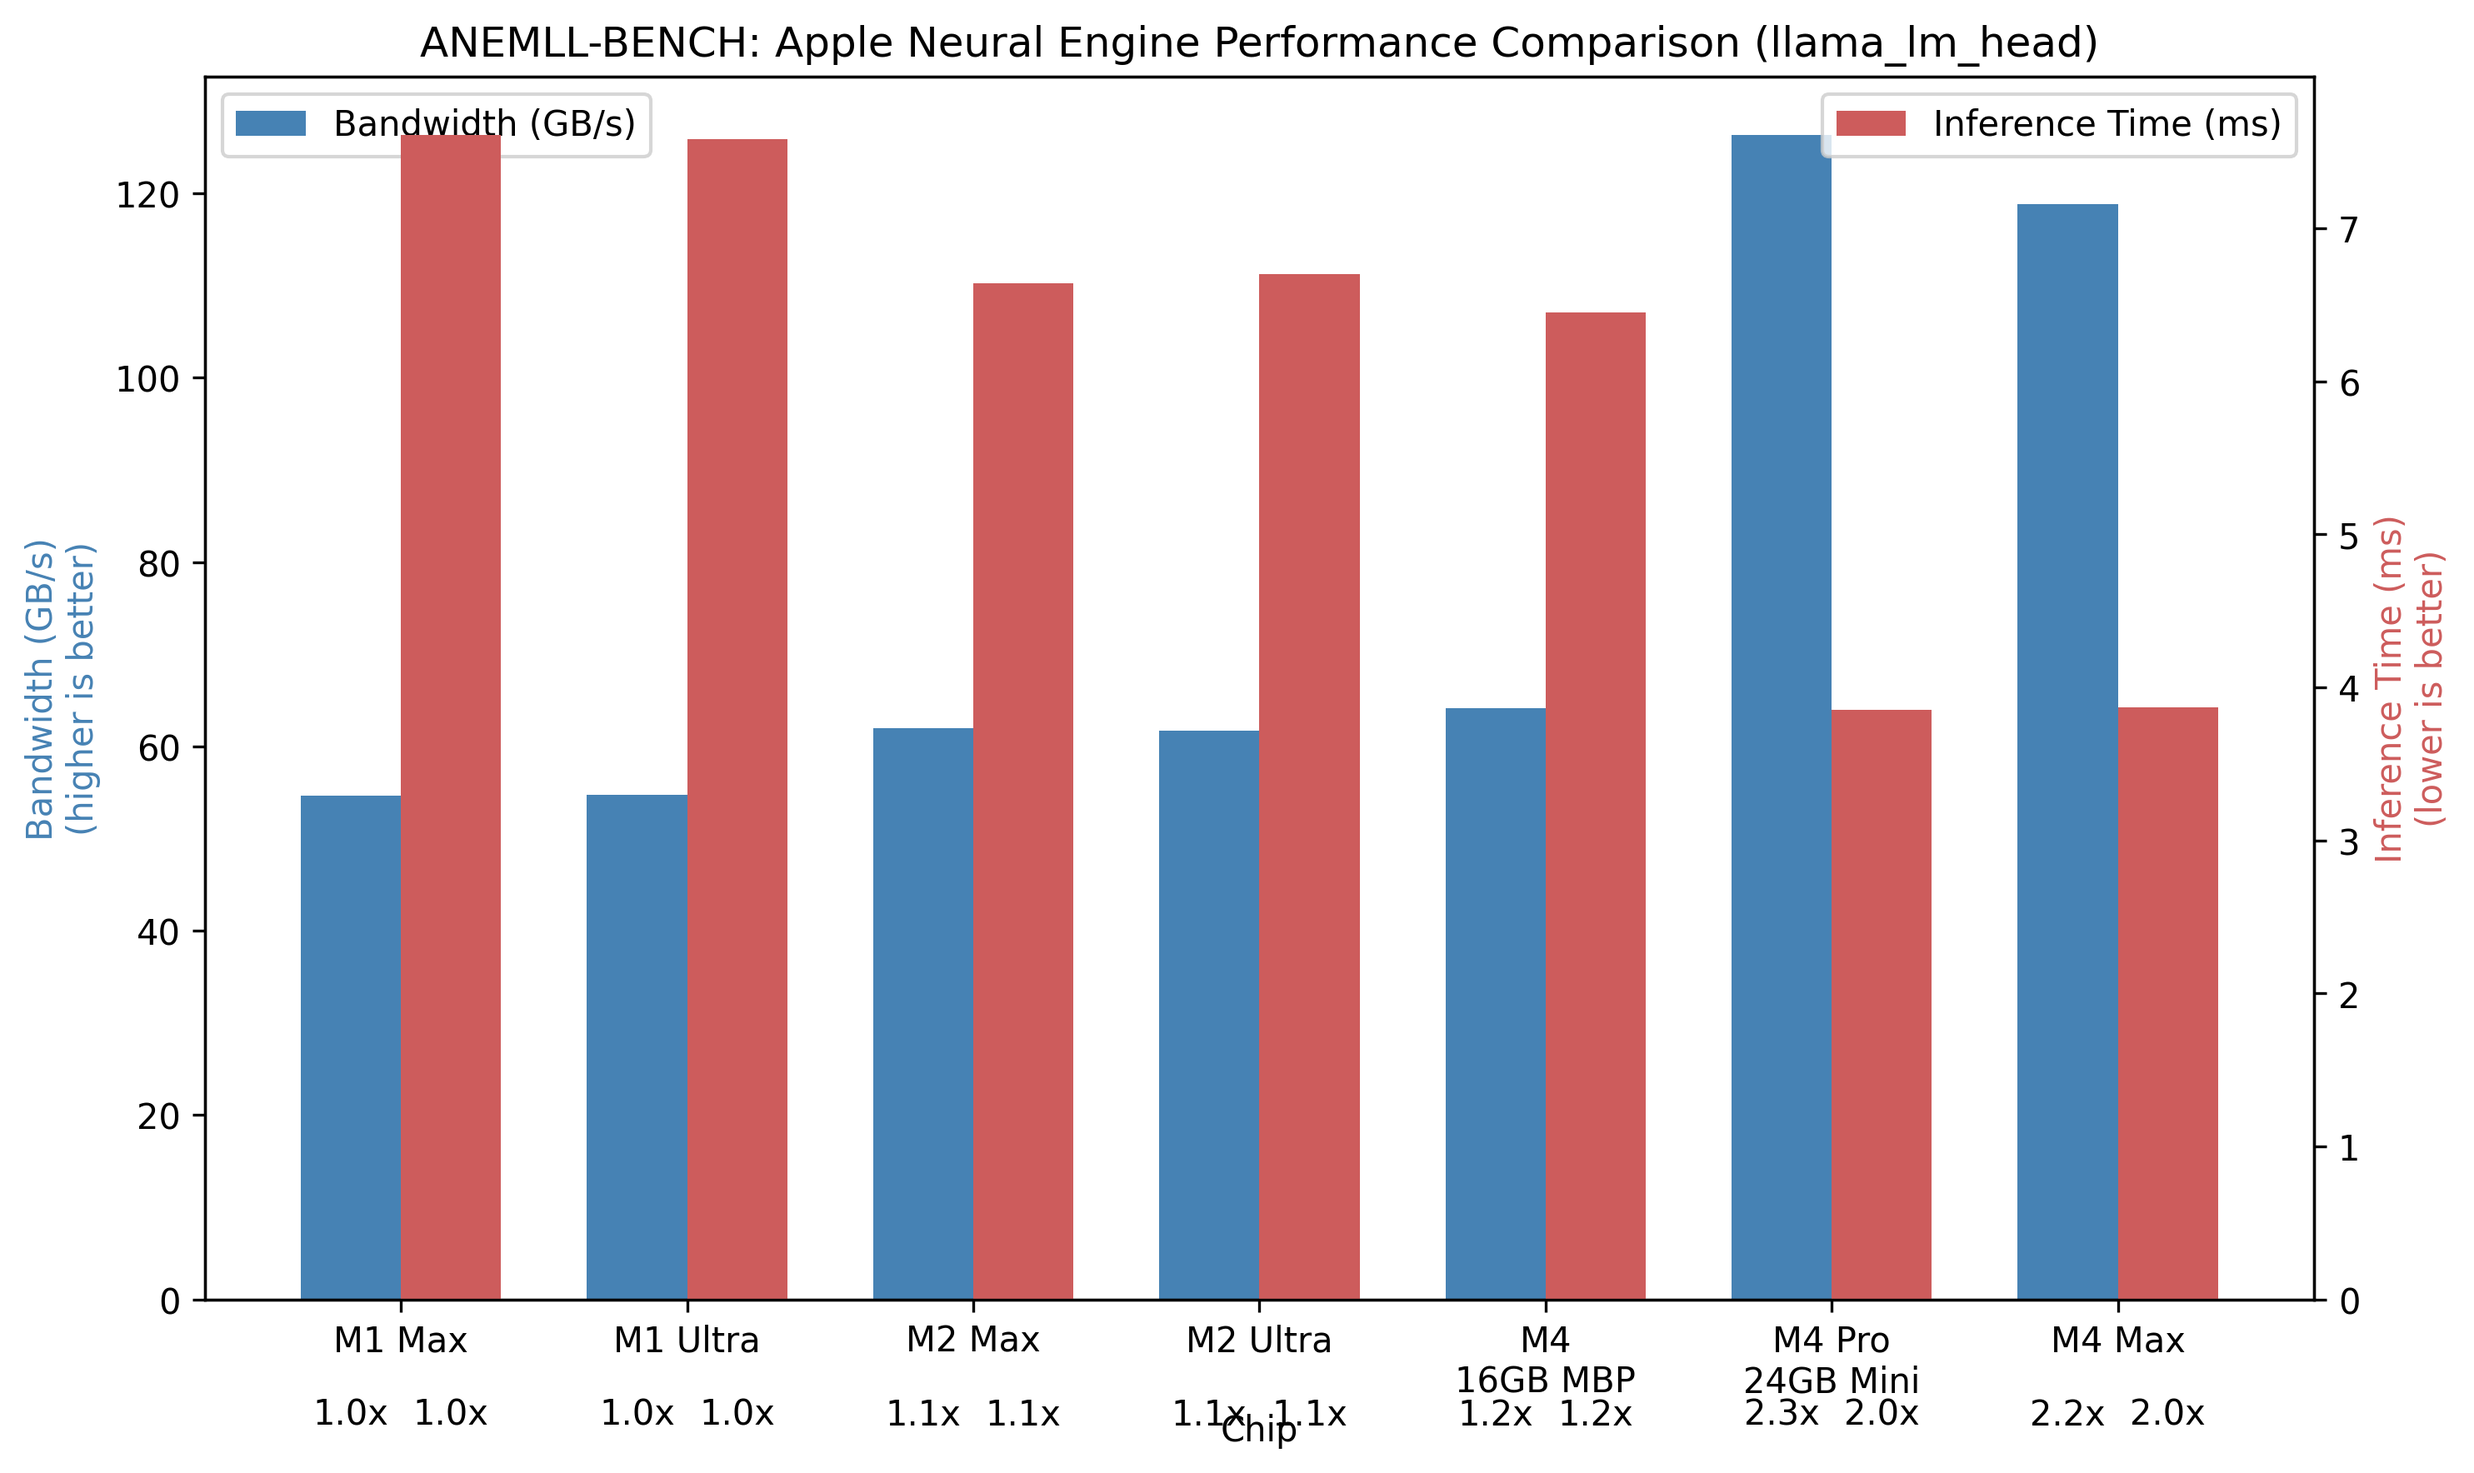
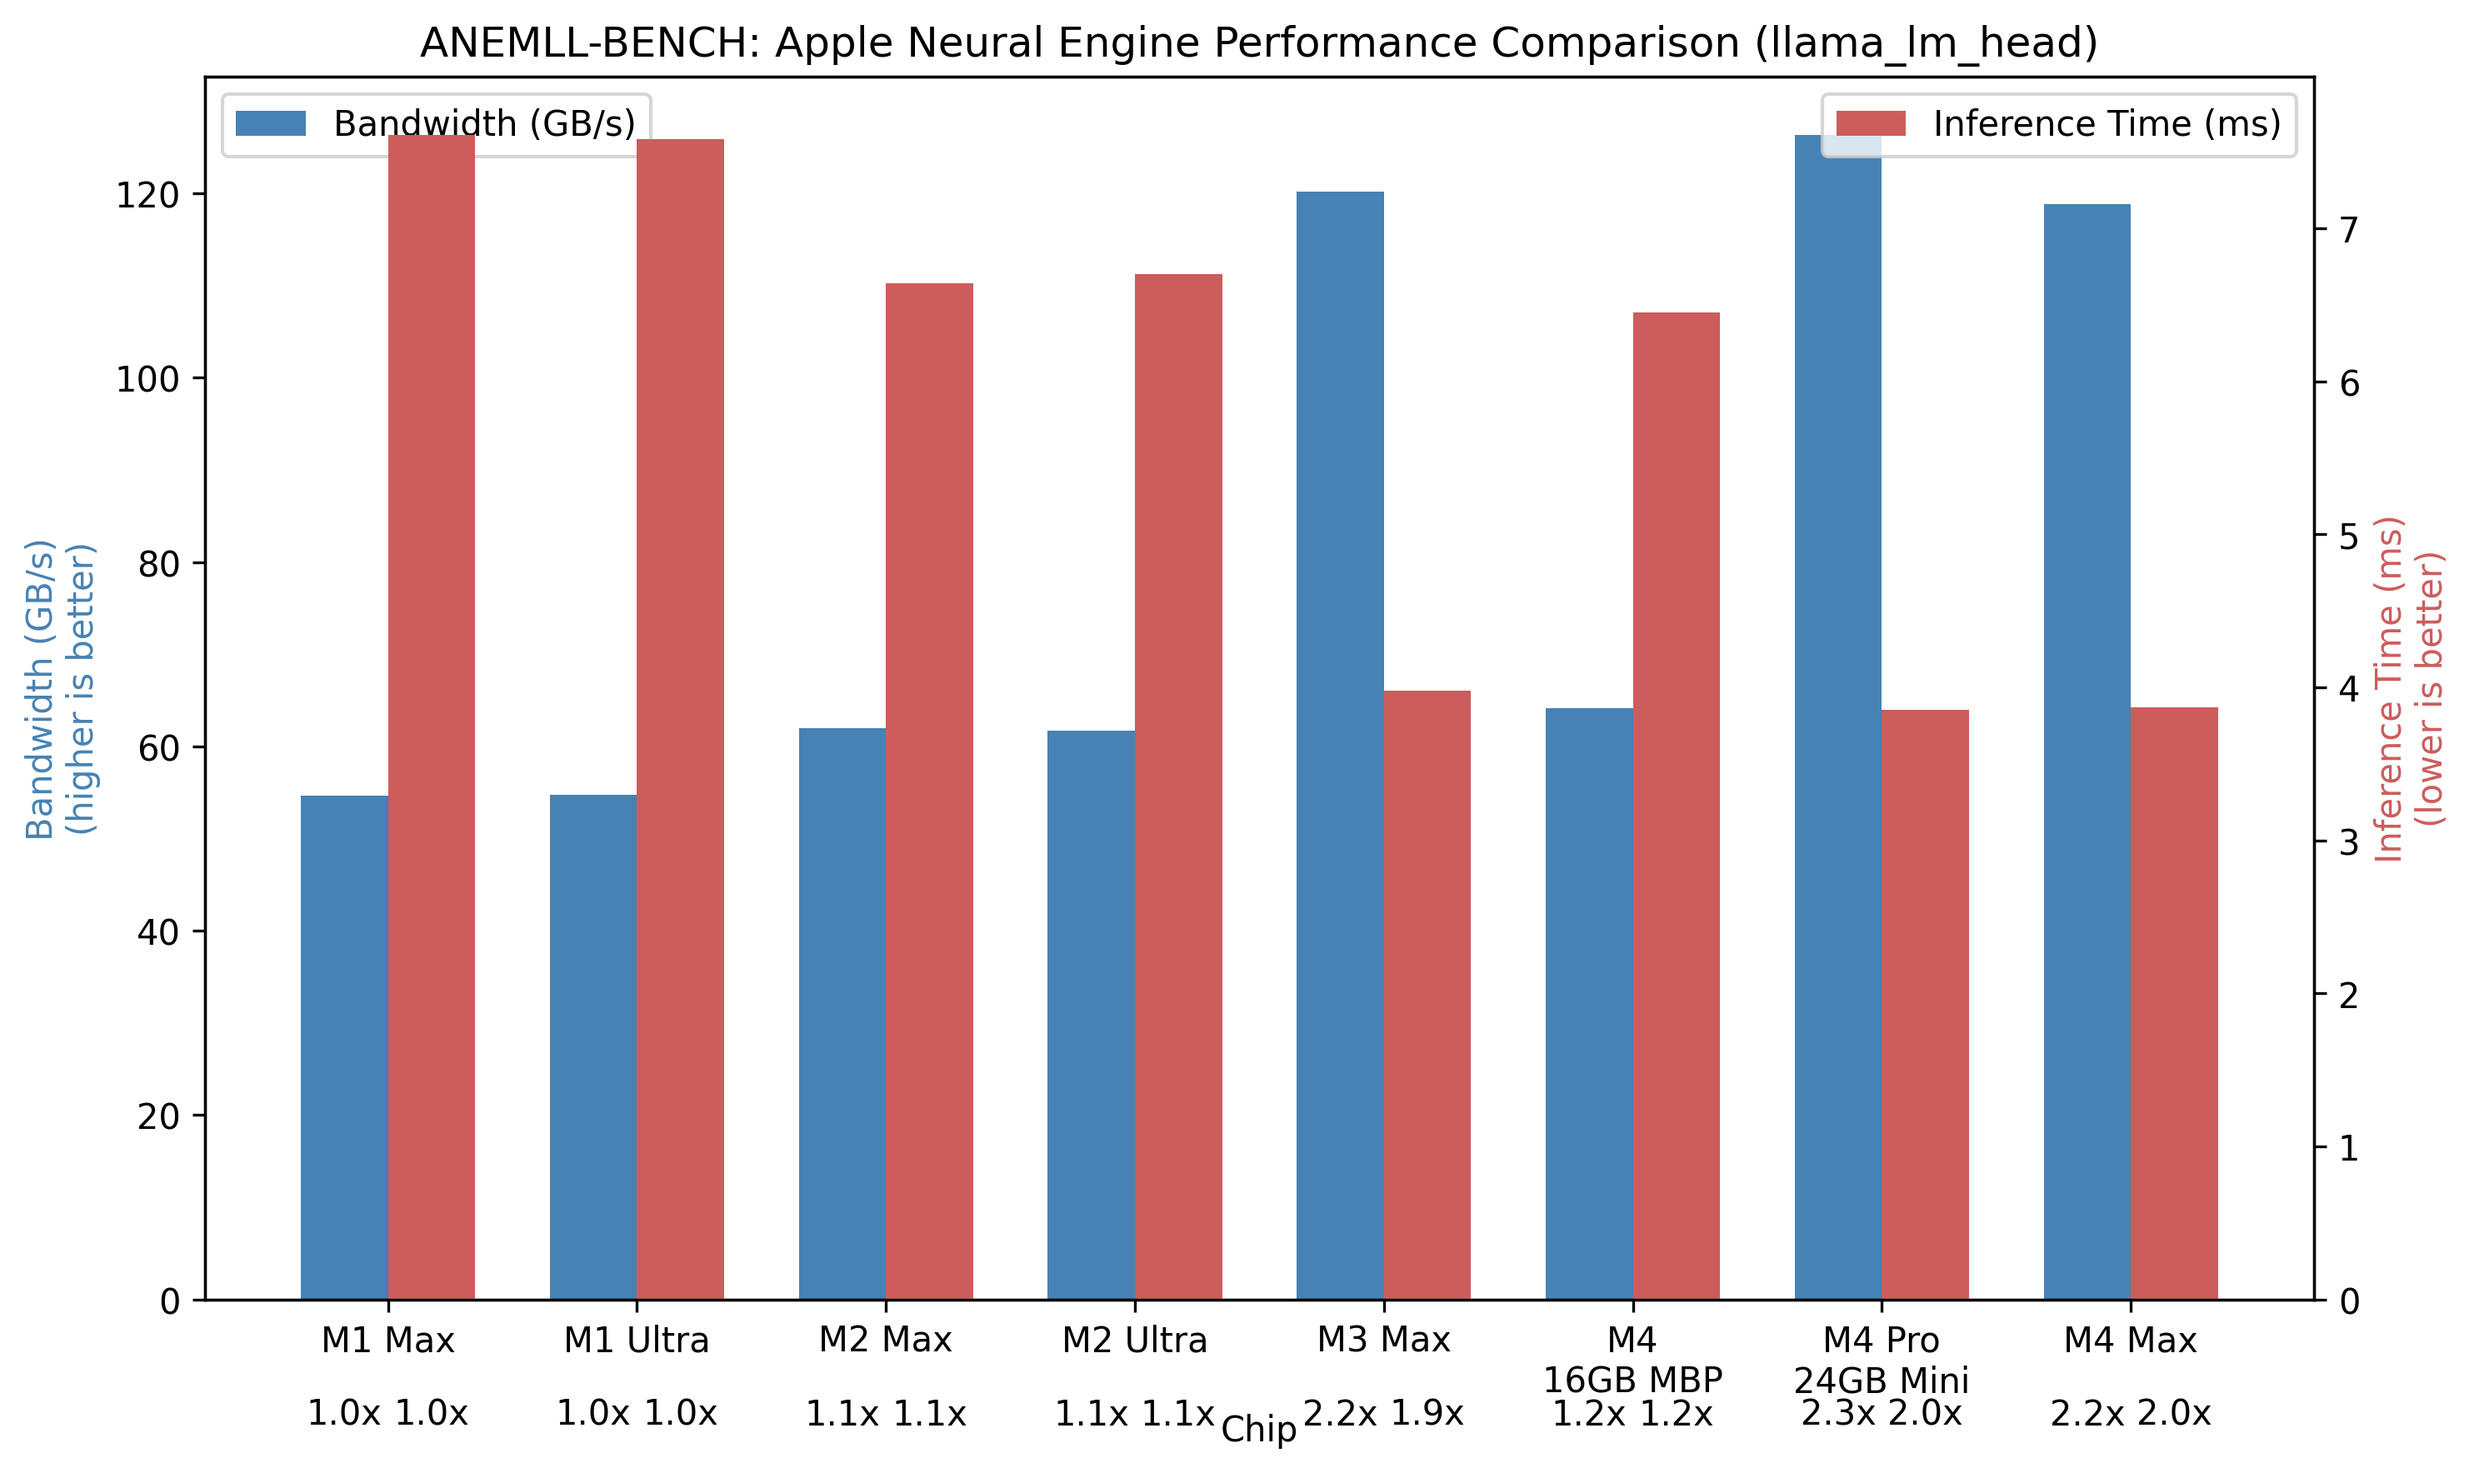
M3 Max report added

diff --git a/examples/generate_results_report.py b/examples/generate_results_report.py
@@ -44,11 +44,11 @@ def generate_visualizations(args):
     
     # Sample data from benchmark results
     # In a real implementation, this would come from parsing the benchmark results file
-    chips = ['M1 Max', 'M1 Ultra', 'M2 Max', 'M2 Ultra', 'M4\n16GB MBP', 'M4 Pro\n24GB Mini', 'M4 Max']
-    bandwidth = [54.62, 54.72, 62.01, 61.68, 64.18, 126.36, 118.88]  # GB/s (llama_lm_head)
-    inference = [7.61, 7.58, 6.64, 6.70, 6.45, 3.85, 3.87]           # ms (llama_lm_head_lut6)
-    bandwidth_factor = ['1.0x', '1.0x', '1.1x', '1.1x', '1.2x', '2.3x', '2.2x']
-    inference_factor = ['1.0x', '1.0x', '1.1x', '1.1x', '1.2x', '2.0x', '2.0x']
+    chips = ['M1 Max', 'M1 Ultra', 'M2 Max', 'M2 Ultra', 'M3 Max', 'M4\n16GB MBP', 'M4 Pro\n24GB Mini', 'M4 Max']
+    bandwidth = [54.62, 54.72, 62.01, 61.68, 120.22, 64.18, 126.36, 118.88]  # GB/s (llama_lm_head)
+    inference = [7.61, 7.58, 6.64, 6.70, 3.98, 6.45, 3.85, 3.87]           # ms (llama_lm_head_lut6)
+    bandwidth_factor = ['1.0x', '1.0x', '1.1x', '1.1x', '2.2x', '1.2x', '2.3x', '2.2x']
+    inference_factor = ['1.0x', '1.0x', '1.1x', '1.1x', '1.9x', '1.2x', '2.0x', '2.0x']
 
     # Create benchmark data dictionary
     benchmark_data = {

diff --git a/examples/plot_chip_comparison.py b/examples/plot_chip_comparison.py
@@ -25,11 +25,11 @@ def main():
     args = parser.parse_args()
 
     # Sample data from llama_lm_head model benchmarks
-    chips = ['M1 Max', 'M1 Ultra', 'M2 Max', 'M2 Ultra', 'M4\n16GB MBP', 'M4 Pro\n24GB Mini', 'M4 Max']
-    bandwidth = [54.62, 54.72, 62.01, 61.68, 64.18, 126.36, 118.88]  # GB/s (llama_lm_head)
-    inference = [7.61, 7.58, 6.64, 6.70, 6.45, 3.85, 3.87]           # ms (llama_lm_head_lut6)
-    bandwidth_factor = ['1.0x', '1.0x', '1.1x', '1.1x', '1.2x', '2.3x', '2.2x']
-    inference_factor = ['1.0x', '1.0x', '1.1x', '1.1x', '1.2x', '2.0x', '2.0x']
+    chips = ['M1 Max', 'M1 Ultra', 'M2 Max', 'M2 Ultra', 'M3 Max', 'M4\n16GB MBP', 'M4 Pro\n24GB Mini', 'M4 Max']
+    bandwidth = [54.62, 54.72, 62.01, 61.68, 120.22, 64.18, 126.36, 118.88]  # GB/s (llama_lm_head)
+    inference = [7.61, 7.58, 6.64, 6.70, 3.98, 6.45, 3.85, 3.87]           # ms (llama_lm_head_lut6)
+    bandwidth_factor = ['1.0x', '1.0x', '1.1x', '1.1x', '2.2x', '1.2x', '2.3x', '2.2x']
+    inference_factor = ['1.0x', '1.0x', '1.1x', '1.1x', '1.9x', '1.2x', '2.0x', '2.0x']
 
     # Option 1: Use plot_chip_comparison directly
     print("Demonstrating direct use of plot_chip_comparison function...\n")

diff --git a/README.md b/README.md
@@ -13,9 +13,9 @@ ANEMLL-Bench is part on ANEMLL Open Source Project [anemll.com](https://anemll.c
 
 ## 📊 [View Benchmark Results](./Results.MD) 📊
 
-[![Apple Silicon Performance Comparison](./reports/chip_comparison_llama_lm_head.png?v=20250309_v4)](./Results.MD)
+[![Apple Silicon Performance Comparison](./reports/chip_comparison_llama_lm_head.png?v=20250309_v6)](./Results.MD)
 
-Check out our latest [benchmark results](./Results.MD) comparing performance across different Apple Silicon chips (M1, M2, M4 series).
+Check out our latest [benchmark results](./Results.MD) comparing performance across different Apple Silicon chips (M1, M2, M3, M4 series).
 
 <div align="center">
   <h2>📊 Help Us Build a Comprehensive Benchmark Database! 📊</h2>
@@ -37,7 +37,7 @@ Check out our latest [benchmark results](./Results.MD) comparing performance acr
         <td>
           ✓ M3<br>
           ✓ M3 PRO<br>
-          ✓ M3 MAX<br>
+          ✓ M3 MAX ✅<br>
           ✓ M3 ULTRA
         </td>
         <td>
@@ -105,151 +105,4 @@ python examples/load_platform_models.py --model llama_lm_head
 python examples/benchmark_all_models.py --use-local --no-sync
 ```
 
-This will automatically download and prepare all the optimized models for your specific macOS version. The models are stored in `~/.cache/anemll-bench/` and are ready to use immediately.
-
-After running benchmarks, check out the [benchmark results](./Results.MD) to see how your device compares to other Apple Silicon chips.
-
-## Features
-- Benchmark models on Apple Neural Engine and compare with CPU/GPU performance
-- Measure inference time and memory bandwidth utilization (GB/s)
-- Download and convert models from Hugging Face to CoreML format
-- Automatically collect system information (Mac model, CPU details, memory)
-- Generate comprehensive HTML reports with visualizations
-- Upload and share reports via multiple services (GitHub Gist, JSONBin, Pastebin)
-- (future) Easy-to-use API for integrating new models
-- Automatic downloading of platform-specific optimized models (macOS 15.x+)
-- Robust model size detection for accurate throughput calculation
-
-## Setup Instructions
-
-### Option 1: Using Python 3.9 (Recommended)
-
-We provide a script to create a Python 3.9 virtual environment:
-
-```bash
-# Make the script executable
-chmod +x create_python39_env.sh
-
-# Run the script
-./create_python39_env.sh
-
-# Activate the environment
-source env-anemll-bench/bin/activate
-
-# Install dependencies
-cd env-anemll-bench
-./install_dependencies.sh
-cd ..
-pip install -e .
-
-#download models
-python examples/sync_models.py
-
-#run banhcmarks
-python examples/benchmark_all_models.py
-
-```
-
-### Option 2: Using Your Current Python Version
-
-If you want to use your current Python version:
-
-```bash
-# Make the script executable
-chmod +x install_dependencies.sh
-
-# Run the script
-./install_dependencies.sh
-```
-
-> **Note**: This may result in compatibility issues if you're using Python 3.13+. See the [Troubleshooting](#troubleshooting) section for common issues and solutions.
-
-## Installation
-
-### Prerequisites
-
-#### Xcode Command Line Tools
-
-ANEMLL-Bench requires Xcode Command Line Tools to be installed on macOS, as they provide essential development libraries and compilers needed for the build process.
-
-To check if Xcode Command Line Tools are installed:
-
-```bash
-xcode-select -p
-```
-
-If the command returns a path (e.g., `/Library/Developer/CommandLineTools` or `/Applications/Xcode.app/Contents/Developer`), then the tools are installed.
-
-If not installed, you can install them by running:
-
-```bash
-xcode-select --install
-```
-
-
-### Verifying Installation
-
-To verify your installation, run the system info command:
-
-```bash
-python -m anemll_bench --system-info
-```
-
-This should display information about your system, including whether you have Apple Silicon and Neural Engine available.
-
-### Automatic Benchmarking of All Models
-
-You can easily benchmark all available platform-specific models with a single command:
-
-```bash
-# Benchmark all models with default settings (300 iterations)
-python examples/benchmark_all_models.py
-
-# Customize the benchmarking process
-python examples/benchmark_all_models.py --runs 500 --sequence-length 1 --output my_report.html
-
-# Skip model synchronization and use only local models
-python examples/benchmark_all_models.py --no-sync --use-local
-
-# Generate a report without charts
-python examples/benchmark_all_models.py --no-charts
-```
-
-This will automatically:
-1. Download any missing models (unless `--no-sync` and `--use-local` are used)
-2. Benchmark each available model for your macOS version 
-3. Generate a comprehensive report with comparison metrics
-
-
-### Checking for Online Model Updates
-
-The package can check Hugging Face for updated model definitions:
-
-```python
-from anemll_bench.models import check_and_update_platform_models
-
-# Check for updated model definitions online
-check_and_update_platform_models()
-```
-
-You can also use the example scripts provided:
-
-```bash
-# Standard benchmarking (uses local models)
-python examples/load_platform_models.py
-
-# Check for updates online, then benchmark
-python examples/load_platform_models.py --check-online
-
-# Benchmark a specific model with online check
-python examples/load_platform_models.py --model llama_lm_head --check-online --num-runs 50
-
-# Check and update model definitions from Hugging Face
-python examples/check_online_models.py
-```
-
-### Automatic Model Synchronization
-
-The easiest way to get all required models is to run the sync script:
-
-```
+This will automatically download and prepare all the optimized models for your specific macOS version. The models are stored in `~/.cache/anemll-bench/`

diff --git a/Results.MD b/Results.MD
@@ -2,9 +2,9 @@
 
 This document presents benchmark results for various machine learning models on different Apple Silicon chips, focusing on Neural Engine (ANE) performance.
 
-## ⚠ ATTENTION: M3 RESULTS NEEDED! ⚠
+## ⚠ ATTENTION: MORE M3 RESULTS NEEDED! ⚠
 
-**We need benchmark data from M3 series devices!** If you have access to any M3 chip variant (M3, M3 Pro, M3 Max, or M3 Ultra), please consider running the benchmarks and submitting your results. Your contribution will help complete our cross-generation performance analysis.
+**We now have M3 Max data but still need more M3 series benchmarks!** If you have access to any other M3 chip variant (M3, M3 Pro, or M3 Ultra), please consider running the benchmarks and submitting your results. Your contribution will help complete our cross-generation performance analysis.
 
 *Submit results to: [realanemll@gmail.com](mailto:realanemll@gmail.com) or [open an issue](https://github.com/Anemll/anemll-bench/issues/new)*
 
@@ -20,12 +20,13 @@ Higher memory bandwidth and lower inference time indicate better performance.
 
 The chart below shows performance comparison across Apple Silicon generations for the `llama_lm_head` model:
 
-![Apple Silicon Performance Comparison](./reports/chip_comparison_llama_lm_head.png?v=20250309_v4)
+![Apple Silicon Performance Comparison](./reports/chip_comparison_llama_lm_head.png?v=20250309_v6)
 
 As shown in the visualization:
 - **M4 Series** chips demonstrate approximately 2.3x higher memory bandwidth compared to M1 series
-- **M4 Series** inference times are approximately 2.0x faster than M1 series
-- The improvements from M1 to M2 were modest (~1.1x), while M4 represents a significant leap
+- **M3 Max** shows impressive memory bandwidth (2.2x over M1 series) and excellent inference performance (1.9x faster than M1)
+- **M4 Series** inference times are approximately 2.0x faster than M1 chips, only slightly better than M3 Max
+- M3 Max and M4 chips represent significant leaps in both bandwidth and inference speed over M1/M2 generations
 
 ## Detailed Benchmark Results
 
@@ -37,6 +38,7 @@ As shown in the visualization:
 | M1 Ultra | 54.72 | 7.58 | 1.0x | 1.0x |
 | M2 Max | 62.01 | 6.64 | 1.1x | 1.1x |
 | M2 Ultra | 61.68 | 6.70 | 1.1x | 1.1x |
+| M3 Max | 120.22 | 3.98 | 2.2x | 1.9x |
 | M4 16GB MBP  | 64.18 | 6.45 | 1.2x | 1.2x |
 | M4 Pro 24GB Mini| 126.36 | 3.85 | 2.3x | 2.0x |
 | M4 Max | 118.88 | 3.87 | 2.2x | 2.0x |
@@ -46,17 +48,20 @@ As shown in the visualization:
 1. **Neural Engine Scaling**:
    - The M1 Ultra shows minimal performance gains over M1 Max, suggesting limited Neural Engine scaling in first-generation Apple Silicon
    - Similar pattern with M2 Ultra vs M2 Max
-   - M4 series demonstrates better scaling and significantly improved performance
-   - The base M4 16GB shows modest improvements (~1.2x) over M1 series, while higher-end M4 variants show much larger gains
+   - M3 Max shows excellent memory bandwidth utilization and very good inference times, competitive with M4 series
+   - M4 series demonstrates slightly better performance across both metrics compared to M3 Max
+   - The base M4 16GB shows modest improvements (~1.2x) over M1 series, significantly underperforming both M3 Max and higher-end M4 variants
 
 2. **Memory Bandwidth Efficiency**:
-   - High-end M4 series shows a ~2.3x improvement in memory bandwidth utilization
+   - M3 Max and high-end M4 series show ~2.2-2.3x improvement in memory bandwidth utilization
+   - This indicates substantial architectural improvements in the Neural Engine starting with the M3 generation
    - Entry-level M4 16GB shows ~1.2x improvement, suggesting memory configuration or thermal constraints may be factors
 
 3. **Inference Time Improvements**:
-   - High-end M4 chips process the same model in approximately half the time compared to M1 chips
-   - Entry-level M4 shows more modest gains, but still outperforms M1 and M2 series
-   - This suggests a significant architectural improvement in the Neural Engine for M4 series
+   - M3 Max shows impressive inference performance (3.98 ms), nearly as fast as the best M4 chips
+   - High-end M4 chips are only marginally faster (3.85-3.87 ms) than the M3 Max
+   - This suggests the major architectural leap for Neural Engine inference performance occurred with the M3 generation
+   - M4 represents a more incremental improvement over M3 Max for inference workloads
 
 ## Running Your Own Benchmarks
 
